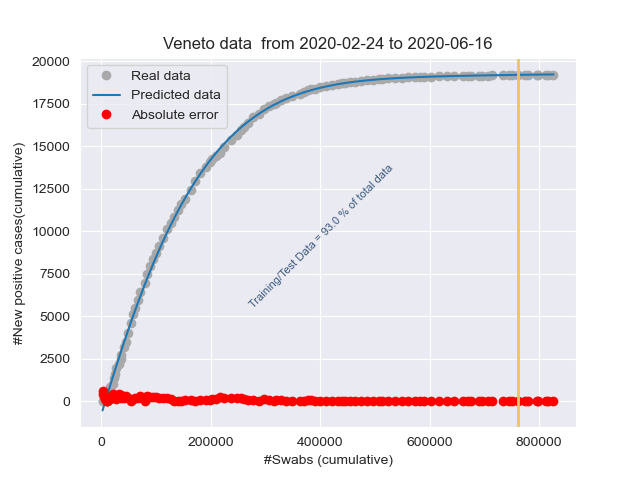
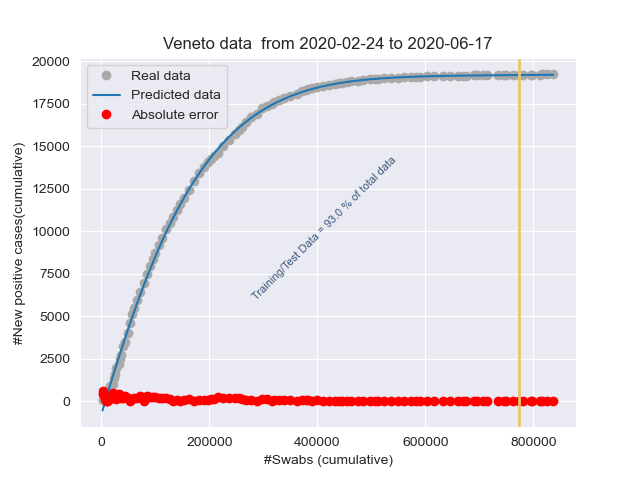
Add files via upload

diff --git a/stat_Friuli Venezia Giulia.html b/stat_Friuli Venezia Giulia.html
@@ -1,1 +1,1 @@
-<!DOCTYPE html><html lang="it"><head><title>Results</title><meta charset="utf-8"><meta name="viewport" content="width=device-width, initial-scale=1"><link rel="stylesheet" href="bootstrap.min.css"><script src="https://ajax.googleapis.com/ajax/libs/jquery/3.4.1/jquery.min.js"></script><script src="https://maxcdn.bootstrapcdn.com/bootstrap/3.4.1/js/bootstrap.min.js"></script></head><body><h3>Day: 2020-06-16</h3><p class="lead my-3">New positive cases: <b>1</b></p><p class="lead my-3">Variation of positive cases: <b>inf%</b></p><p class="lead my-3">Number of swabs: <b>495.0</b></p><p class="lead my-3">Variation of swabs: <b>0.31%</b></p><p class="lead my-3">Postive cases/Swabs: <b>0.2 %</b></p><p class="lead my-3">Number of people admitted to Intensive care: <b>0</b></p><p class="lead my-3">Number of recovered people: <b>1.0</b></p><p class="lead my-3">Number of dead people: <b>0.0</b></p><h3>Total</h3><p class="lead my-3">Population of  Friuli Venezia Giulia: <b>1215220</b> <a href="http://dati.istat.it/Index.aspx?QueryId=18548" target="_blank">ISTAT data</a></p><p class="lead my-3">Total number of positive cases from 2020-02-24 00:00:00 to 2020-06-16: <b> 3297</b></p><p class="lead my-3">Total number of swabs from 2020-02-24 00:00:00 to 2020-06-16: <b> 162440</b></p><p class="lead my-3">TotalSwabs/Population: <b> 13.37%</b></p></body></html>
+<!DOCTYPE html><html lang="it"><head><title>Results</title><meta charset="utf-8"><meta name="viewport" content="width=device-width, initial-scale=1"><link rel="stylesheet" href="bootstrap.min.css"><script src="https://ajax.googleapis.com/ajax/libs/jquery/3.4.1/jquery.min.js"></script><script src="https://maxcdn.bootstrapcdn.com/bootstrap/3.4.1/js/bootstrap.min.js"></script></head><body><h3>Day: 2020-06-17</h3><p class="lead my-3">New positive cases: <b>2</b></p><p class="lead my-3">Variation of positive cases: <b>100.0%</b></p><p class="lead my-3">Number of swabs: <b>3624.0</b></p><p class="lead my-3">Variation of swabs: <b>2.23%</b></p><p class="lead my-3">Postive cases/Swabs: <b>0.06 %</b></p><p class="lead my-3">Number of people admitted to Intensive care: <b>0</b></p><p class="lead my-3">Number of recovered people: <b>2.0</b></p><p class="lead my-3">Number of dead people: <b>0.0</b></p><h3>Total</h3><p class="lead my-3">Population of  Friuli Venezia Giulia: <b>1215220</b> <a href="http://dati.istat.it/Index.aspx?QueryId=18548" target="_blank">ISTAT data</a></p><p class="lead my-3">Total number of positive cases from 2020-02-24 00:00:00 to 2020-06-17: <b> 3299</b></p><p class="lead my-3">Total number of swabs from 2020-02-24 00:00:00 to 2020-06-17: <b> 166064</b></p><p class="lead my-3">TotalSwabs/Population: <b> 13.67%</b></p></body></html>

diff --git a/stat_Emilia-Romagna.html b/stat_Emilia-Romagna.html
@@ -1,1 +1,1 @@
-<!DOCTYPE html><html lang="it"><head><title>Results</title><meta charset="utf-8"><meta name="viewport" content="width=device-width, initial-scale=1"><link rel="stylesheet" href="bootstrap.min.css"><script src="https://ajax.googleapis.com/ajax/libs/jquery/3.4.1/jquery.min.js"></script><script src="https://maxcdn.bootstrapcdn.com/bootstrap/3.4.1/js/bootstrap.min.js"></script></head><body><h3>Day: 2020-06-16</h3><p class="lead my-3">New positive cases: <b>13</b></p><p class="lead my-3">Variation of positive cases: <b>18.18%</b></p><p class="lead my-3">Number of swabs: <b>6200.0</b></p><p class="lead my-3">Variation of swabs: <b>1.51%</b></p><p class="lead my-3">Postive cases/Swabs: <b>0.21 %</b></p><p class="lead my-3">Number of people admitted to Intensive care: <b>11</b></p><p class="lead my-3">Number of recovered people: <b>106.0</b></p><p class="lead my-3">Number of dead people: <b>2.0</b></p><h3>Total</h3><p class="lead my-3">Population of  Emilia-Romagna: <b>4459477</b> <a href="http://dati.istat.it/Index.aspx?QueryId=18548" target="_blank">ISTAT data</a></p><p class="lead my-3">Total number of positive cases from 2020-02-24 00:00:00 to 2020-06-16: <b> 28097</b></p><p class="lead my-3">Total number of swabs from 2020-02-24 00:00:00 to 2020-06-16: <b> 417184</b></p><p class="lead my-3">TotalSwabs/Population: <b> 9.35%</b></p></body></html>
+<!DOCTYPE html><html lang="it"><head><title>Results</title><meta charset="utf-8"><meta name="viewport" content="width=device-width, initial-scale=1"><link rel="stylesheet" href="bootstrap.min.css"><script src="https://ajax.googleapis.com/ajax/libs/jquery/3.4.1/jquery.min.js"></script><script src="https://maxcdn.bootstrapcdn.com/bootstrap/3.4.1/js/bootstrap.min.js"></script></head><body><h3>Day: 2020-06-17</h3><p class="lead my-3">New positive cases: <b>14</b></p><p class="lead my-3">Variation of positive cases: <b>7.69%</b></p><p class="lead my-3">Number of swabs: <b>9546.0</b></p><p class="lead my-3">Variation of swabs: <b>2.29%</b></p><p class="lead my-3">Postive cases/Swabs: <b>0.15 %</b></p><p class="lead my-3">Number of people admitted to Intensive care: <b>11</b></p><p class="lead my-3">Number of recovered people: <b>68.0</b></p><p class="lead my-3">Number of dead people: <b>6.0</b></p><h3>Total</h3><p class="lead my-3">Population of  Emilia-Romagna: <b>4459477</b> <a href="http://dati.istat.it/Index.aspx?QueryId=18548" target="_blank">ISTAT data</a></p><p class="lead my-3">Total number of positive cases from 2020-02-24 00:00:00 to 2020-06-17: <b> 28111</b></p><p class="lead my-3">Total number of swabs from 2020-02-24 00:00:00 to 2020-06-17: <b> 426730</b></p><p class="lead my-3">TotalSwabs/Population: <b> 9.57%</b></p></body></html>

diff --git a/stat_Italy.html b/stat_Italy.html
@@ -1,1 +1,1 @@
-<!DOCTYPE html><html lang="it"><head><title>Results</title><meta charset="utf-8"><meta name="viewport" content="width=device-width, initial-scale=1"><link rel="stylesheet" href="bootstrap.min.css"><script src="https://ajax.googleapis.com/ajax/libs/jquery/3.4.1/jquery.min.js"></script><script src="https://maxcdn.bootstrapcdn.com/bootstrap/3.4.1/js/bootstrap.min.js"></script></head><body><h3>Day: 2020-06-16</h3><p class="lead my-3">New positive cases: <b>210</b></p><p class="lead my-3">Variation of positive cases: <b>-30.69%</b></p><p class="lead my-3">Number of swabs: <b>46882.0</b></p><p class="lead my-3">Variation of swabs: <b>1.01%</b></p><p class="lead my-3">Postive cases/Swabs: <b>0.45 %</b></p><p class="lead my-3">Number of people admitted to Intensive care: <b>177</b></p><p class="lead my-3">Number of recovered people: <b>1516.0</b></p><p class="lead my-3">Number of dead people: <b>34.0</b></p><h3>Total</h3><p class="lead my-3">Population of  Italy: <b>60359546</b> <a href="http://dati.istat.it/Index.aspx?QueryId=18548" target="_blank">ISTAT data</a></p><p class="lead my-3">Total number of positive cases from 2020-02-24 00:00:00 to 2020-06-16: <b> 237494</b></p><p class="lead my-3">Total number of swabs from 2020-02-24 00:00:00 to 2020-06-16: <b> 4695707</b></p><p class="lead my-3">TotalSwabs/Population: <b> 7.78%</b></p></body></html>
+<!DOCTYPE html><html lang="it"><head><title>Results</title><meta charset="utf-8"><meta name="viewport" content="width=device-width, initial-scale=1"><link rel="stylesheet" href="bootstrap.min.css"><script src="https://ajax.googleapis.com/ajax/libs/jquery/3.4.1/jquery.min.js"></script><script src="https://maxcdn.bootstrapcdn.com/bootstrap/3.4.1/js/bootstrap.min.js"></script></head><body><h3>Day: 2020-06-17</h3><p class="lead my-3">New positive cases: <b>329</b></p><p class="lead my-3">Variation of positive cases: <b>56.67%</b></p><p class="lead my-3">Number of swabs: <b>77701.0</b></p><p class="lead my-3">Variation of swabs: <b>1.65%</b></p><p class="lead my-3">Postive cases/Swabs: <b>0.42 %</b></p><p class="lead my-3">Number of people admitted to Intensive care: <b>163</b></p><p class="lead my-3">Number of recovered people: <b>929.0</b></p><p class="lead my-3">Number of dead people: <b>43.0</b></p><h3>Total</h3><p class="lead my-3">Population of  Italy: <b>60359546</b> <a href="http://dati.istat.it/Index.aspx?QueryId=18548" target="_blank">ISTAT data</a></p><p class="lead my-3">Total number of positive cases from 2020-02-24 00:00:00 to 2020-06-17: <b> 237823</b></p><p class="lead my-3">Total number of swabs from 2020-02-24 00:00:00 to 2020-06-17: <b> 4773408</b></p><p class="lead my-3">TotalSwabs/Population: <b> 7.91%</b></p></body></html>

diff --git a/stat_Lombardia.html b/stat_Lombardia.html
@@ -1,1 +1,1 @@
-<!DOCTYPE html><html lang="it"><head><title>Results</title><meta charset="utf-8"><meta name="viewport" content="width=device-width, initial-scale=1"><link rel="stylesheet" href="bootstrap.min.css"><script src="https://ajax.googleapis.com/ajax/libs/jquery/3.4.1/jquery.min.js"></script><script src="https://maxcdn.bootstrapcdn.com/bootstrap/3.4.1/js/bootstrap.min.js"></script></head><body><h3>Day: 2020-06-16</h3><p class="lead my-3">New positive cases: <b>143</b></p><p class="lead my-3">Variation of positive cases: <b>-44.79%</b></p><p class="lead my-3">Number of swabs: <b>7044.0</b></p><p class="lead my-3">Variation of swabs: <b>0.78%</b></p><p class="lead my-3">Postive cases/Swabs: <b>2.03 %</b></p><p class="lead my-3">Number of people admitted to Intensive care: <b>69</b></p><p class="lead my-3">Number of recovered people: <b>877.0</b></p><p class="lead my-3">Number of dead people: <b>9.0</b></p><h3>Total</h3><p class="lead my-3">Population of  Lombardia: <b>10060574</b> <a href="http://dati.istat.it/Index.aspx?QueryId=18548" target="_blank">ISTAT data</a></p><p class="lead my-3">Total number of positive cases from 2020-02-24 00:00:00 to 2020-06-16: <b> 92054</b></p><p class="lead my-3">Total number of swabs from 2020-02-24 00:00:00 to 2020-06-16: <b> 906322</b></p><p class="lead my-3">TotalSwabs/Population: <b> 9.01%</b></p></body></html>
+<!DOCTYPE html><html lang="it"><head><title>Results</title><meta charset="utf-8"><meta name="viewport" content="width=device-width, initial-scale=1"><link rel="stylesheet" href="bootstrap.min.css"><script src="https://ajax.googleapis.com/ajax/libs/jquery/3.4.1/jquery.min.js"></script><script src="https://maxcdn.bootstrapcdn.com/bootstrap/3.4.1/js/bootstrap.min.js"></script></head><body><h3>Day: 2020-06-17</h3><p class="lead my-3">New positive cases: <b>242</b></p><p class="lead my-3">Variation of positive cases: <b>69.23%</b></p><p class="lead my-3">Number of swabs: <b>11559.0</b></p><p class="lead my-3">Variation of swabs: <b>1.28%</b></p><p class="lead my-3">Postive cases/Swabs: <b>2.09 %</b></p><p class="lead my-3">Number of people admitted to Intensive care: <b>59</b></p><p class="lead my-3">Number of recovered people: <b>489.0</b></p><p class="lead my-3">Number of dead people: <b>14.0</b></p><h3>Total</h3><p class="lead my-3">Population of  Lombardia: <b>10060574</b> <a href="http://dati.istat.it/Index.aspx?QueryId=18548" target="_blank">ISTAT data</a></p><p class="lead my-3">Total number of positive cases from 2020-02-24 00:00:00 to 2020-06-17: <b> 92296</b></p><p class="lead my-3">Total number of swabs from 2020-02-24 00:00:00 to 2020-06-17: <b> 917881</b></p><p class="lead my-3">TotalSwabs/Population: <b> 9.12%</b></p></body></html>

diff --git a/stat_Piemonte.html b/stat_Piemonte.html
@@ -1,1 +1,1 @@
-<!DOCTYPE html><html lang="it"><head><title>Results</title><meta charset="utf-8"><meta name="viewport" content="width=device-width, initial-scale=1"><link rel="stylesheet" href="bootstrap.min.css"><script src="https://ajax.googleapis.com/ajax/libs/jquery/3.4.1/jquery.min.js"></script><script src="https://maxcdn.bootstrapcdn.com/bootstrap/3.4.1/js/bootstrap.min.js"></script></head><body><h3>Day: 2020-06-16</h3><p class="lead my-3">New positive cases: <b>29</b></p><p class="lead my-3">Variation of positive cases: <b>1350.0%</b></p><p class="lead my-3">Number of swabs: <b>3654.0</b></p><p class="lead my-3">Variation of swabs: <b>0.99%</b></p><p class="lead my-3">Postive cases/Swabs: <b>0.79 %</b></p><p class="lead my-3">Number of people admitted to Intensive care: <b>28</b></p><p class="lead my-3">Number of recovered people: <b>177.0</b></p><p class="lead my-3">Number of dead people: <b>6.0</b></p><h3>Total</h3><p class="lead my-3">Population of  Piemonte: <b>4356406</b> <a href="http://dati.istat.it/Index.aspx?QueryId=18548" target="_blank">ISTAT data</a></p><p class="lead my-3">Total number of positive cases from 2020-02-24 00:00:00 to 2020-06-16: <b> 31090</b></p><p class="lead my-3">Total number of swabs from 2020-02-24 00:00:00 to 2020-06-16: <b> 372948</b></p><p class="lead my-3">TotalSwabs/Population: <b> 8.56%</b></p></body></html>
+<!DOCTYPE html><html lang="it"><head><title>Results</title><meta charset="utf-8"><meta name="viewport" content="width=device-width, initial-scale=1"><link rel="stylesheet" href="bootstrap.min.css"><script src="https://ajax.googleapis.com/ajax/libs/jquery/3.4.1/jquery.min.js"></script><script src="https://maxcdn.bootstrapcdn.com/bootstrap/3.4.1/js/bootstrap.min.js"></script></head><body><h3>Day: 2020-06-17</h3><p class="lead my-3">New positive cases: <b>41</b></p><p class="lead my-3">Variation of positive cases: <b>41.38%</b></p><p class="lead my-3">Number of swabs: <b>4217.0</b></p><p class="lead my-3">Variation of swabs: <b>1.13%</b></p><p class="lead my-3">Postive cases/Swabs: <b>0.97 %</b></p><p class="lead my-3">Number of people admitted to Intensive care: <b>25</b></p><p class="lead my-3">Number of recovered people: <b>98.0</b></p><p class="lead my-3">Number of dead people: <b>8.0</b></p><h3>Total</h3><p class="lead my-3">Population of  Piemonte: <b>4356406</b> <a href="http://dati.istat.it/Index.aspx?QueryId=18548" target="_blank">ISTAT data</a></p><p class="lead my-3">Total number of positive cases from 2020-02-24 00:00:00 to 2020-06-17: <b> 31131</b></p><p class="lead my-3">Total number of swabs from 2020-02-24 00:00:00 to 2020-06-17: <b> 377165</b></p><p class="lead my-3">TotalSwabs/Population: <b> 8.66%</b></p></body></html>

diff --git a/stat_Toscana.html b/stat_Toscana.html
@@ -1,1 +1,1 @@
-<!DOCTYPE html><html lang="it"><head><title>Results</title><meta charset="utf-8"><meta name="viewport" content="width=device-width, initial-scale=1"><link rel="stylesheet" href="bootstrap.min.css"><script src="https://ajax.googleapis.com/ajax/libs/jquery/3.4.1/jquery.min.js"></script><script src="https://maxcdn.bootstrapcdn.com/bootstrap/3.4.1/js/bootstrap.min.js"></script></head><body><h3>Day: 2020-06-16</h3><p class="lead my-3">New positive cases: <b>3</b></p><p class="lead my-3">Variation of positive cases: <b>-62.5%</b></p><p class="lead my-3">Number of swabs: <b>3129.0</b></p><p class="lead my-3">Variation of swabs: <b>1.07%</b></p><p class="lead my-3">Postive cases/Swabs: <b>0.1 %</b></p><p class="lead my-3">Number of people admitted to Intensive care: <b>14</b></p><p class="lead my-3">Number of recovered people: <b>26.0</b></p><p class="lead my-3">Number of dead people: <b>3.0</b></p><h3>Total</h3><p class="lead my-3">Population of  Toscana: <b>3729641</b> <a href="http://dati.istat.it/Index.aspx?QueryId=18548" target="_blank">ISTAT data</a></p><p class="lead my-3">Total number of positive cases from 2020-02-24 00:00:00 to 2020-06-16: <b> 10191</b></p><p class="lead my-3">Total number of swabs from 2020-02-24 00:00:00 to 2020-06-16: <b> 296812</b></p><p class="lead my-3">TotalSwabs/Population: <b> 7.96%</b></p></body></html>
+<!DOCTYPE html><html lang="it"><head><title>Results</title><meta charset="utf-8"><meta name="viewport" content="width=device-width, initial-scale=1"><link rel="stylesheet" href="bootstrap.min.css"><script src="https://ajax.googleapis.com/ajax/libs/jquery/3.4.1/jquery.min.js"></script><script src="https://maxcdn.bootstrapcdn.com/bootstrap/3.4.1/js/bootstrap.min.js"></script></head><body><h3>Day: 2020-06-17</h3><p class="lead my-3">New positive cases: <b>2</b></p><p class="lead my-3">Variation of positive cases: <b>-33.33%</b></p><p class="lead my-3">Number of swabs: <b>3800.0</b></p><p class="lead my-3">Variation of swabs: <b>1.28%</b></p><p class="lead my-3">Postive cases/Swabs: <b>0.05 %</b></p><p class="lead my-3">Number of people admitted to Intensive care: <b>14</b></p><p class="lead my-3">Number of recovered people: <b>20.0</b></p><p class="lead my-3">Number of dead people: <b>1.0</b></p><h3>Total</h3><p class="lead my-3">Population of  Toscana: <b>3729641</b> <a href="http://dati.istat.it/Index.aspx?QueryId=18548" target="_blank">ISTAT data</a></p><p class="lead my-3">Total number of positive cases from 2020-02-24 00:00:00 to 2020-06-17: <b> 10193</b></p><p class="lead my-3">Total number of swabs from 2020-02-24 00:00:00 to 2020-06-17: <b> 300612</b></p><p class="lead my-3">TotalSwabs/Population: <b> 8.06%</b></p></body></html>

diff --git a/stat_P.A. Trento.html b/stat_P.A. Trento.html
@@ -1,1 +1,1 @@
-<!DOCTYPE html><html lang="it"><head><title>Results</title><meta charset="utf-8"><meta name="viewport" content="width=device-width, initial-scale=1"><link rel="stylesheet" href="bootstrap.min.css"><script src="https://ajax.googleapis.com/ajax/libs/jquery/3.4.1/jquery.min.js"></script><script src="https://maxcdn.bootstrapcdn.com/bootstrap/3.4.1/js/bootstrap.min.js"></script></head><body><h3>Day: 2020-06-16</h3><p class="lead my-3">New positive cases: <b>0</b></p><p class="lead my-3">Variation of positive cases: <b>-100.0%</b></p><p class="lead my-3">Number of swabs: <b>390.0</b></p><p class="lead my-3">Variation of swabs: <b>0.37%</b></p><p class="lead my-3">Postive cases/Swabs: <b>0.0 %</b></p><p class="lead my-3">Number of people admitted to Intensive care: <b>0</b></p><p class="lead my-3">Number of recovered people: <b>2.0</b></p><p class="lead my-3">Number of dead people: <b>0.0</b></p><h3>Total</h3><p class="lead my-3">Population of  P.A. Trento: <b>541098</b> <a href="http://dati.istat.it/Index.aspx?QueryId=18548" target="_blank">ISTAT data</a></p><p class="lead my-3">Total number of positive cases from 2020-02-24 00:00:00 to 2020-06-16: <b> 4448</b></p><p class="lead my-3">Total number of swabs from 2020-02-24 00:00:00 to 2020-06-16: <b> 104696</b></p><p class="lead my-3">TotalSwabs/Population: <b> 19.35%</b></p></body></html>
+<!DOCTYPE html><html lang="it"><head><title>Results</title><meta charset="utf-8"><meta name="viewport" content="width=device-width, initial-scale=1"><link rel="stylesheet" href="bootstrap.min.css"><script src="https://ajax.googleapis.com/ajax/libs/jquery/3.4.1/jquery.min.js"></script><script src="https://maxcdn.bootstrapcdn.com/bootstrap/3.4.1/js/bootstrap.min.js"></script></head><body><h3>Day: 2020-06-17</h3><p class="lead my-3">New positive cases: <b>1</b></p><p class="lead my-3">Variation of positive cases: <b>inf%</b></p><p class="lead my-3">Number of swabs: <b>1145.0</b></p><p class="lead my-3">Variation of swabs: <b>1.09%</b></p><p class="lead my-3">Postive cases/Swabs: <b>0.09 %</b></p><p class="lead my-3">Number of people admitted to Intensive care: <b>0</b></p><p class="lead my-3">Number of recovered people: <b>7.0</b></p><p class="lead my-3">Number of dead people: <b>0.0</b></p><h3>Total</h3><p class="lead my-3">Population of  P.A. Trento: <b>541098</b> <a href="http://dati.istat.it/Index.aspx?QueryId=18548" target="_blank">ISTAT data</a></p><p class="lead my-3">Total number of positive cases from 2020-02-24 00:00:00 to 2020-06-17: <b> 4449</b></p><p class="lead my-3">Total number of swabs from 2020-02-24 00:00:00 to 2020-06-17: <b> 105841</b></p><p class="lead my-3">TotalSwabs/Population: <b> 19.56%</b></p></body></html>

diff --git a/stat_Campania.html b/stat_Campania.html
@@ -1,1 +1,1 @@
-<!DOCTYPE html><html lang="it"><head><title>Results</title><meta charset="utf-8"><meta name="viewport" content="width=device-width, initial-scale=1"><link rel="stylesheet" href="bootstrap.min.css"><script src="https://ajax.googleapis.com/ajax/libs/jquery/3.4.1/jquery.min.js"></script><script src="https://maxcdn.bootstrapcdn.com/bootstrap/3.4.1/js/bootstrap.min.js"></script></head><body><h3>Day: 2020-06-16</h3><p class="lead my-3">New positive cases: <b>0</b></p><p class="lead my-3">Variation of positive cases: <b>-100.0%</b></p><p class="lead my-3">Number of swabs: <b>1282.0</b></p><p class="lead my-3">Variation of swabs: <b>0.53%</b></p><p class="lead my-3">Postive cases/Swabs: <b>0.0 %</b></p><p class="lead my-3">Number of people admitted to Intensive care: <b>2</b></p><p class="lead my-3">Number of recovered people: <b>16.0</b></p><p class="lead my-3">Number of dead people: <b>0.0</b></p><h3>Total</h3><p class="lead my-3">Population of  Campania: <b>5801692</b> <a href="http://dati.istat.it/Index.aspx?QueryId=18548" target="_blank">ISTAT data</a></p><p class="lead my-3">Total number of positive cases from 2020-02-24 00:00:00 to 2020-06-16: <b> 4613</b></p><p class="lead my-3">Total number of swabs from 2020-02-24 00:00:00 to 2020-06-16: <b> 242662</b></p><p class="lead my-3">TotalSwabs/Population: <b> 4.18%</b></p></body></html>
+<!DOCTYPE html><html lang="it"><head><title>Results</title><meta charset="utf-8"><meta name="viewport" content="width=device-width, initial-scale=1"><link rel="stylesheet" href="bootstrap.min.css"><script src="https://ajax.googleapis.com/ajax/libs/jquery/3.4.1/jquery.min.js"></script><script src="https://maxcdn.bootstrapcdn.com/bootstrap/3.4.1/js/bootstrap.min.js"></script></head><body><h3>Day: 2020-06-17</h3><p class="lead my-3">New positive cases: <b>1</b></p><p class="lead my-3">Variation of positive cases: <b>inf%</b></p><p class="lead my-3">Number of swabs: <b>15545.0</b></p><p class="lead my-3">Variation of swabs: <b>6.41%</b></p><p class="lead my-3">Postive cases/Swabs: <b>0.01 %</b></p><p class="lead my-3">Number of people admitted to Intensive care: <b>2</b></p><p class="lead my-3">Number of recovered people: <b>15.0</b></p><p class="lead my-3">Number of dead people: <b>1.0</b></p><h3>Total</h3><p class="lead my-3">Population of  Campania: <b>5801692</b> <a href="http://dati.istat.it/Index.aspx?QueryId=18548" target="_blank">ISTAT data</a></p><p class="lead my-3">Total number of positive cases from 2020-02-24 00:00:00 to 2020-06-17: <b> 4614</b></p><p class="lead my-3">Total number of swabs from 2020-02-24 00:00:00 to 2020-06-17: <b> 258207</b></p><p class="lead my-3">TotalSwabs/Population: <b> 4.45%</b></p></body></html>

diff --git a/stat_Veneto.html b/stat_Veneto.html
@@ -1,1 +1,1 @@
-<!DOCTYPE html><html lang="it"><head><title>Results</title><meta charset="utf-8"><meta name="viewport" content="width=device-width, initial-scale=1"><link rel="stylesheet" href="bootstrap.min.css"><script src="https://ajax.googleapis.com/ajax/libs/jquery/3.4.1/jquery.min.js"></script><script src="https://maxcdn.bootstrapcdn.com/bootstrap/3.4.1/js/bootstrap.min.js"></script></head><body><h3>Day: 2020-06-16</h3><p class="lead my-3">New positive cases: <b>1</b></p><p class="lead my-3">Variation of positive cases: <b>0.0%</b></p><p class="lead my-3">Number of swabs: <b>9128.0</b></p><p class="lead my-3">Variation of swabs: <b>1.12%</b></p><p class="lead my-3">Postive cases/Swabs: <b>0.01 %</b></p><p class="lead my-3">Number of people admitted to Intensive care: <b>1</b></p><p class="lead my-3">Number of recovered people: <b>34.0</b></p><p class="lead my-3">Number of dead people: <b>4.0</b></p><h3>Total</h3><p class="lead my-3">Population of  Veneto: <b>4905854</b> <a href="http://dati.istat.it/Index.aspx?QueryId=18548" target="_blank">ISTAT data</a></p><p class="lead my-3">Total number of positive cases from 2020-02-24 00:00:00 to 2020-06-16: <b> 19220</b></p><p class="lead my-3">Total number of swabs from 2020-02-24 00:00:00 to 2020-06-16: <b> 826192</b></p><p class="lead my-3">TotalSwabs/Population: <b> 16.84%</b></p></body></html>
+<!DOCTYPE html><html lang="it"><head><title>Results</title><meta charset="utf-8"><meta name="viewport" content="width=device-width, initial-scale=1"><link rel="stylesheet" href="bootstrap.min.css"><script src="https://ajax.googleapis.com/ajax/libs/jquery/3.4.1/jquery.min.js"></script><script src="https://maxcdn.bootstrapcdn.com/bootstrap/3.4.1/js/bootstrap.min.js"></script></head><body><h3>Day: 2020-06-17</h3><p class="lead my-3">New positive cases: <b>4</b></p><p class="lead my-3">Variation of positive cases: <b>300.0%</b></p><p class="lead my-3">Number of swabs: <b>11202.0</b></p><p class="lead my-3">Variation of swabs: <b>1.36%</b></p><p class="lead my-3">Postive cases/Swabs: <b>0.04 %</b></p><p class="lead my-3">Number of people admitted to Intensive care: <b>1</b></p><p class="lead my-3">Number of recovered people: <b>37.0</b></p><p class="lead my-3">Number of dead people: <b>5.0</b></p><h3>Total</h3><p class="lead my-3">Population of  Veneto: <b>4905854</b> <a href="http://dati.istat.it/Index.aspx?QueryId=18548" target="_blank">ISTAT data</a></p><p class="lead my-3">Total number of positive cases from 2020-02-24 00:00:00 to 2020-06-17: <b> 19224</b></p><p class="lead my-3">Total number of swabs from 2020-02-24 00:00:00 to 2020-06-17: <b> 837394</b></p><p class="lead my-3">TotalSwabs/Population: <b> 17.07%</b></p></body></html>

diff --git a/stat_Lazio.html b/stat_Lazio.html
@@ -1,1 +1,1 @@
-<!DOCTYPE html><html lang="it"><head><title>Results</title><meta charset="utf-8"><meta name="viewport" content="width=device-width, initial-scale=1"><link rel="stylesheet" href="bootstrap.min.css"><script src="https://ajax.googleapis.com/ajax/libs/jquery/3.4.1/jquery.min.js"></script><script src="https://maxcdn.bootstrapcdn.com/bootstrap/3.4.1/js/bootstrap.min.js"></script></head><body><h3>Day: 2020-06-16</h3><p class="lead my-3">New positive cases: <b>9</b></p><p class="lead my-3">Variation of positive cases: <b>200.0%</b></p><p class="lead my-3">Number of swabs: <b>2715.0</b></p><p class="lead my-3">Variation of swabs: <b>0.91%</b></p><p class="lead my-3">Postive cases/Swabs: <b>0.33 %</b></p><p class="lead my-3">Number of people admitted to Intensive care: <b>38</b></p><p class="lead my-3">Number of recovered people: <b>169.0</b></p><p class="lead my-3">Number of dead people: <b>3.0</b></p><h3>Total</h3><p class="lead my-3">Population of  Lazio: <b>5879082</b> <a href="http://dati.istat.it/Index.aspx?QueryId=18548" target="_blank">ISTAT data</a></p><p class="lead my-3">Total number of positive cases from 2020-02-24 00:00:00 to 2020-06-16: <b> 7966</b></p><p class="lead my-3">Total number of swabs from 2020-02-24 00:00:00 to 2020-06-16: <b> 302305</b></p><p class="lead my-3">TotalSwabs/Population: <b> 5.14%</b></p></body></html>
+<!DOCTYPE html><html lang="it"><head><title>Results</title><meta charset="utf-8"><meta name="viewport" content="width=device-width, initial-scale=1"><link rel="stylesheet" href="bootstrap.min.css"><script src="https://ajax.googleapis.com/ajax/libs/jquery/3.4.1/jquery.min.js"></script><script src="https://maxcdn.bootstrapcdn.com/bootstrap/3.4.1/js/bootstrap.min.js"></script></head><body><h3>Day: 2020-06-17</h3><p class="lead my-3">New positive cases: <b>10</b></p><p class="lead my-3">Variation of positive cases: <b>11.11%</b></p><p class="lead my-3">Number of swabs: <b>3601.0</b></p><p class="lead my-3">Variation of swabs: <b>1.19%</b></p><p class="lead my-3">Postive cases/Swabs: <b>0.28 %</b></p><p class="lead my-3">Number of people admitted to Intensive care: <b>38</b></p><p class="lead my-3">Number of recovered people: <b>96.0</b></p><p class="lead my-3">Number of dead people: <b>4.0</b></p><h3>Total</h3><p class="lead my-3">Population of  Lazio: <b>5879082</b> <a href="http://dati.istat.it/Index.aspx?QueryId=18548" target="_blank">ISTAT data</a></p><p class="lead my-3">Total number of positive cases from 2020-02-24 00:00:00 to 2020-06-17: <b> 7976</b></p><p class="lead my-3">Total number of swabs from 2020-02-24 00:00:00 to 2020-06-17: <b> 305906</b></p><p class="lead my-3">TotalSwabs/Population: <b> 5.2%</b></p></body></html>

diff --git a/stat_P.A. Bolzano.html b/stat_P.A. Bolzano.html
@@ -1,1 +1,1 @@
-<!DOCTYPE html><html lang="it"><head><title>Results</title><meta charset="utf-8"><meta name="viewport" content="width=device-width, initial-scale=1"><link rel="stylesheet" href="bootstrap.min.css"><script src="https://ajax.googleapis.com/ajax/libs/jquery/3.4.1/jquery.min.js"></script><script src="https://maxcdn.bootstrapcdn.com/bootstrap/3.4.1/js/bootstrap.min.js"></script></head><body><h3>Day: 2020-06-16</h3><p class="lead my-3">New positive cases: <b>0</b></p><p class="lead my-3">Variation of positive cases: <b>0.0%</b></p><p class="lead my-3">Number of swabs: <b>316.0</b></p><p class="lead my-3">Variation of swabs: <b>0.41%</b></p><p class="lead my-3">Postive cases/Swabs: <b>0.0 %</b></p><p class="lead my-3">Number of people admitted to Intensive care: <b>1</b></p><p class="lead my-3">Number of recovered people: <b>1.0</b></p><p class="lead my-3">Number of dead people: <b>0.0</b></p><h3>Total</h3><p class="lead my-3">Population of  P.A. Bolzano: <b>531178</b> <a href="http://dati.istat.it/Index.aspx?QueryId=18548" target="_blank">ISTAT data</a></p><p class="lead my-3">Total number of positive cases from 2020-02-24 00:00:00 to 2020-06-16: <b> 2613</b></p><p class="lead my-3">Total number of swabs from 2020-02-24 00:00:00 to 2020-06-16: <b> 76661</b></p><p class="lead my-3">TotalSwabs/Population: <b> 14.43%</b></p></body></html>
+<!DOCTYPE html><html lang="it"><head><title>Results</title><meta charset="utf-8"><meta name="viewport" content="width=device-width, initial-scale=1"><link rel="stylesheet" href="bootstrap.min.css"><script src="https://ajax.googleapis.com/ajax/libs/jquery/3.4.1/jquery.min.js"></script><script src="https://maxcdn.bootstrapcdn.com/bootstrap/3.4.1/js/bootstrap.min.js"></script></head><body><h3>Day: 2020-06-17</h3><p class="lead my-3">New positive cases: <b>0</b></p><p class="lead my-3">Variation of positive cases: <b>0.0%</b></p><p class="lead my-3">Number of swabs: <b>569.0</b></p><p class="lead my-3">Variation of swabs: <b>0.74%</b></p><p class="lead my-3">Postive cases/Swabs: <b>0.0 %</b></p><p class="lead my-3">Number of people admitted to Intensive care: <b>1</b></p><p class="lead my-3">Number of recovered people: <b>6.0</b></p><p class="lead my-3">Number of dead people: <b>0.0</b></p><h3>Total</h3><p class="lead my-3">Population of  P.A. Bolzano: <b>531178</b> <a href="http://dati.istat.it/Index.aspx?QueryId=18548" target="_blank">ISTAT data</a></p><p class="lead my-3">Total number of positive cases from 2020-02-24 00:00:00 to 2020-06-17: <b> 2613</b></p><p class="lead my-3">Total number of swabs from 2020-02-24 00:00:00 to 2020-06-17: <b> 77230</b></p><p class="lead my-3">TotalSwabs/Population: <b> 14.54%</b></p></body></html>

diff --git a/stat_Liguria.html b/stat_Liguria.html
@@ -1,1 +1,1 @@
-<!DOCTYPE html><html lang="it"><head><title>Results</title><meta charset="utf-8"><meta name="viewport" content="width=device-width, initial-scale=1"><link rel="stylesheet" href="bootstrap.min.css"><script src="https://ajax.googleapis.com/ajax/libs/jquery/3.4.1/jquery.min.js"></script><script src="https://maxcdn.bootstrapcdn.com/bootstrap/3.4.1/js/bootstrap.min.js"></script></head><body><h3>Day: 2020-06-16</h3><p class="lead my-3">New positive cases: <b>4</b></p><p class="lead my-3">Variation of positive cases: <b>-50.0%</b></p><p class="lead my-3">Number of swabs: <b>1336.0</b></p><p class="lead my-3">Variation of swabs: <b>1.04%</b></p><p class="lead my-3">Postive cases/Swabs: <b>0.3 %</b></p><p class="lead my-3">Number of people admitted to Intensive care: <b>2</b></p><p class="lead my-3">Number of recovered people: <b>4.0</b></p><p class="lead my-3">Number of dead people: <b>4.0</b></p><h3>Total</h3><p class="lead my-3">Population of  Liguria: <b>1550640</b> <a href="http://dati.istat.it/Index.aspx?QueryId=18548" target="_blank">ISTAT data</a></p><p class="lead my-3">Total number of positive cases from 2020-02-24 00:00:00 to 2020-06-16: <b> 9891</b></p><p class="lead my-3">Total number of swabs from 2020-02-24 00:00:00 to 2020-06-16: <b> 129249</b></p><p class="lead my-3">TotalSwabs/Population: <b> 8.34%</b></p></body></html>
+<!DOCTYPE html><html lang="it"><head><title>Results</title><meta charset="utf-8"><meta name="viewport" content="width=device-width, initial-scale=1"><link rel="stylesheet" href="bootstrap.min.css"><script src="https://ajax.googleapis.com/ajax/libs/jquery/3.4.1/jquery.min.js"></script><script src="https://maxcdn.bootstrapcdn.com/bootstrap/3.4.1/js/bootstrap.min.js"></script></head><body><h3>Day: 2020-06-17</h3><p class="lead my-3">New positive cases: <b>5</b></p><p class="lead my-3">Variation of positive cases: <b>25.0%</b></p><p class="lead my-3">Number of swabs: <b>1621.0</b></p><p class="lead my-3">Variation of swabs: <b>1.25%</b></p><p class="lead my-3">Postive cases/Swabs: <b>0.31 %</b></p><p class="lead my-3">Number of people admitted to Intensive care: <b>2</b></p><p class="lead my-3">Number of recovered people: <b>0.0</b></p><p class="lead my-3">Number of dead people: <b>3.0</b></p><h3>Total</h3><p class="lead my-3">Population of  Liguria: <b>1550640</b> <a href="http://dati.istat.it/Index.aspx?QueryId=18548" target="_blank">ISTAT data</a></p><p class="lead my-3">Total number of positive cases from 2020-02-24 00:00:00 to 2020-06-17: <b> 9896</b></p><p class="lead my-3">Total number of swabs from 2020-02-24 00:00:00 to 2020-06-17: <b> 130870</b></p><p class="lead my-3">TotalSwabs/Population: <b> 8.44%</b></p></body></html>
